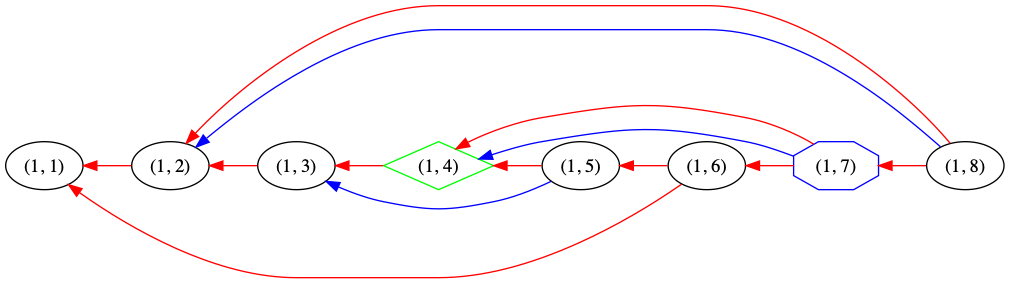
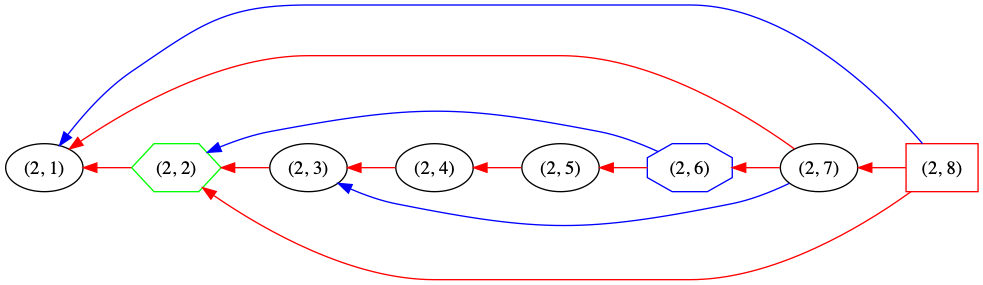
Add data layer.

diff --git a/replication/zigzag-commitments/zigzag-commitments.html b/replication/zigzag-commitments/zigzag-commitments.html
@@ -142,15 +142,17 @@ for the JavaScript code in this tag.
 <ul>
 <li><a href="#sec-1">1. Graph</a>
 <ul>
-<li><a href="#sec-1-1">1.1. Replica Column Layers, Comm' Tree</a></li>
-<li><a href="#sec-1-2">1.2. Final Layer, CommR Tree</a></li>
-<li><a href="#sec-1-3">1.3. Legend</a></li>
+<li><a href="#sec-1-1">1.1. Legend</a></li>
+<li><a href="#sec-1-2">1.2. Data Layer: CommD Tree</a></li>
+<li><a href="#sec-1-3">1.3. Replica Column Layers: Comm' Tree</a></li>
+<li><a href="#sec-1-4">1.4. Final Layer: CommR Tree</a></li>
 </ul>
 </li>
 <li><a href="#sec-2">2. Details</a>
 <ul>
-<li><a href="#sec-2-1">2.1. Columns</a></li>
-<li><a href="#sec-2-2">2.2. Final Layer</a></li>
+<li><a href="#sec-2-1">2.1. Initial Data Layer</a></li>
+<li><a href="#sec-2-2">2.2. Columns</a></li>
+<li><a href="#sec-2-3">2.3. Final Replica Layer</a></li>
 </ul>
 </li>
 </ul>
@@ -168,8 +170,35 @@ and are accurate for expander parents. However, this is not representative of th
 </div>
 
 <div id="outline-container-sec-1-1" class="outline-3">
-<h3 id="sec-1-1"><span class="section-number-3">1.1</span> Replica Column Layers, Comm' Tree</h3>
+<h3 id="sec-1-1"><span class="section-number-3">1.1</span> Legend</h3>
 <div class="outline-text-3" id="text-1-1">
+
+<div class="figure">
+<p><img src="legend-odd.png" alt="legend-odd.png" />
+</p>
+</div>
+
+<div class="figure">
+<p><img src="legend-even.png" alt="legend-even.png" />
+</p>
+</div>
+</div>
+</div>
+
+<div id="outline-container-sec-1-2" class="outline-3">
+<h3 id="sec-1-2"><span class="section-number-3">1.2</span> Data Layer: CommD Tree</h3>
+<div class="outline-text-3" id="text-1-2">
+
+<div class="figure">
+<p><img src="data-layer.png" alt="data-layer.png" />
+</p>
+</div>
+</div>
+</div>
+
+<div id="outline-container-sec-1-3" class="outline-3">
+<h3 id="sec-1-3"><span class="section-number-3">1.3</span> Replica Column Layers: Comm' Tree</h3>
+<div class="outline-text-3" id="text-1-3">
 
 <div class="figure">
 <p><img src="layer-0.png" alt="layer-0.png" />
@@ -202,9 +231,9 @@ and are accurate for expander parents. However, this is not representative of th
 </div>
 </div>
 
-<div id="outline-container-sec-1-2" class="outline-3">
-<h3 id="sec-1-2"><span class="section-number-3">1.2</span> Final Layer, CommR Tree</h3>
-<div class="outline-text-3" id="text-1-2">
+<div id="outline-container-sec-1-4" class="outline-3">
+<h3 id="sec-1-4"><span class="section-number-3">1.4</span> Final Layer: CommR Tree</h3>
+<div class="outline-text-3" id="text-1-4">
 
 <div class="figure">
 <p><img src="layer-5.png" alt="layer-5.png" />
@@ -212,27 +241,15 @@ and are accurate for expander parents. However, this is not representative of th
 </div>
 </div>
 </div>
-
-
-
-<div id="outline-container-sec-1-3" class="outline-3">
-<h3 id="sec-1-3"><span class="section-number-3">1.3</span> Legend</h3>
-<div class="outline-text-3" id="text-1-3">
-
-<div class="figure">
-<p><img src="layer-legend.png" alt="layer-legend.png" />
-</p>
 </div>
-</div>
-</div>
-</div>
+
 
 
 <div id="outline-container-sec-2" class="outline-2">
 <h2 id="sec-2"><span class="section-number-2">2</span> Details</h2>
 <div class="outline-text-2" id="text-2">
 </div><div id="outline-container-sec-2-1" class="outline-3">
-<h3 id="sec-2-1"><span class="section-number-3">2.1</span> Columns</h3>
+<h3 id="sec-2-1"><span class="section-number-3">2.1</span> Initial Data Layer</h3>
 <div class="outline-text-3" id="text-2-1">
 <table border="2" cellspacing="0" cellpadding="6" rules="groups" frame="hsides">
 
@@ -257,11 +274,11 @@ and are accurate for expander parents. However, this is not representative of th
 <tbody>
 <tr>
 <td class="left">&#xa0;</td>
-<td class="left">DRG Parent</td>
-<td class="left">Expander Parent</td>
+<td class="left">&#xa0;</td>
+<td class="left">&#xa0;</td>
+<td class="left">&#xa0;</td>
 <td class="left">&#xa0;</td>
 <td class="left">Challenged Node</td>
-<td class="left">&#xa0;</td>
 <td class="left">&#xa0;</td>
 <td class="left">&#xa0;</td>
 </tr>
@@ -276,57 +293,13 @@ and are accurate for expander parents. However, this is not representative of th
 <td class="left">(0, 7)</td>
 <td class="left">(0, 8)</td>
 </tr>
-
-<tr>
-<td class="left">(1, 8)</td>
-<td class="left">(1, 7)</td>
-<td class="left">(1, 6)</td>
-<td class="left">(1, 5)</td>
-<td class="left">(1, 4)</td>
-<td class="left">(1, 3)</td>
-<td class="left">(1, 2)</td>
-<td class="left">(1, 1)</td>
-</tr>
-
-<tr>
-<td class="left">(2, 1)</td>
-<td class="left">(2, 2)</td>
-<td class="left">(2, 3)</td>
-<td class="left">(2, 4)</td>
-<td class="left">(2, 5)</td>
-<td class="left">(2, 6)</td>
-<td class="left">(2, 7)</td>
-<td class="left">(2, 8)</td>
-</tr>
-
-<tr>
-<td class="left">(3, 8)</td>
-<td class="left">(3, 7)</td>
-<td class="left">(3, 6)</td>
-<td class="left">(3, 5)</td>
-<td class="left">(3, 4)</td>
-<td class="left">(3, 3)</td>
-<td class="left">(3, 2)</td>
-<td class="left">(3, 1)</td>
-</tr>
-
-<tr>
-<td class="left">(4, 1)</td>
-<td class="left">(4, 2)</td>
-<td class="left">(4, 3)</td>
-<td class="left">(4, 4)</td>
-<td class="left">(4, 5)</td>
-<td class="left">(4, 6)</td>
-<td class="left">(4, 7)</td>
-<td class="left">(4, 8)</td>
-</tr>
 </tbody>
 </table>
 </div>
 </div>
 
 <div id="outline-container-sec-2-2" class="outline-3">
-<h3 id="sec-2-2"><span class="section-number-3">2.2</span> Final Layer</h3>
+<h3 id="sec-2-2"><span class="section-number-3">2.2</span> Columns</h3>
 <div class="outline-text-3" id="text-2-2">
 <table border="2" cellspacing="0" cellpadding="6" rules="groups" frame="hsides">
 
@@ -350,14 +323,120 @@ and are accurate for expander parents. However, this is not representative of th
 </colgroup>
 <tbody>
 <tr>
-<td class="left">(5, 8)</td>
-<td class="left">(5, 7)</td>
-<td class="left">(5, 6)</td>
-<td class="left">(5, 5)</td>
-<td class="left">(5, 4)</td>
-<td class="left">(5, 3)</td>
-<td class="left">(5, 2)</td>
+<td class="left">Odd Expander Parent</td>
+<td class="left">DRG Parent</td>
+<td class="left">&#xa0;</td>
+<td class="left">&#xa0;</td>
+<td class="left">Even Expander Parent</td>
+<td class="left">Challenged Node</td>
+<td class="left">&#xa0;</td>
+<td class="left">&#xa0;</td>
+</tr>
+
+<tr>
+<td class="left">(1, 1)</td>
+<td class="left">(1, 2)</td>
+<td class="left">(1, 3)</td>
+<td class="left">(1, 4)</td>
+<td class="left">(1, 5)</td>
+<td class="left">(1, 6)</td>
+<td class="left">(1, 7)</td>
+<td class="left">(1, 8)</td>
+</tr>
+
+<tr>
+<td class="left">(2, 8)</td>
+<td class="left">(2, 7)</td>
+<td class="left">(2, 6)</td>
+<td class="left">(2, 5)</td>
+<td class="left">(2, 4)</td>
+<td class="left">(2, 3)</td>
+<td class="left">(2, 2)</td>
+<td class="left">(2, 1)</td>
+</tr>
+
+<tr>
+<td class="left">(3, 1)</td>
+<td class="left">(3, 2)</td>
+<td class="left">(3, 3)</td>
+<td class="left">(3, 4)</td>
+<td class="left">(3, 5)</td>
+<td class="left">(3, 6)</td>
+<td class="left">(3, 7)</td>
+<td class="left">(3, 8)</td>
+</tr>
+
+<tr>
+<td class="left">(4, 8)</td>
+<td class="left">(4, 7)</td>
+<td class="left">(4, 6)</td>
+<td class="left">(4, 5)</td>
+<td class="left">(4, 4)</td>
+<td class="left">(4, 3)</td>
+<td class="left">(4, 2)</td>
+<td class="left">(4, 1)</td>
+</tr>
+
+<tr>
 <td class="left">(5, 1)</td>
+<td class="left">(5, 2)</td>
+<td class="left">(5, 3)</td>
+<td class="left">(5, 4)</td>
+<td class="left">(5, 5)</td>
+<td class="left">(5, 6)</td>
+<td class="left">(5, 7)</td>
+<td class="left">(5, 8)</td>
+</tr>
+</tbody>
+</table>
+</div>
+</div>
+
+
+<div id="outline-container-sec-2-3" class="outline-3">
+<h3 id="sec-2-3"><span class="section-number-3">2.3</span> Final Replica Layer</h3>
+<div class="outline-text-3" id="text-2-3">
+<table border="2" cellspacing="0" cellpadding="6" rules="groups" frame="hsides">
+
+
+<colgroup>
+<col  class="left" />
+
+<col  class="left" />
+
+<col  class="left" />
+
+<col  class="left" />
+
+<col  class="left" />
+
+<col  class="left" />
+
+<col  class="left" />
+
+<col  class="left" />
+</colgroup>
+<tbody>
+<tr>
+<td class="left">&#xa0;</td>
+<td class="left">&#xa0;</td>
+<td class="left">Even Challenged Node</td>
+<td class="left">&#xa0;</td>
+<td class="left">Even Expander Parent</td>
+<td class="left">&#xa0;</td>
+<td class="left">Even DRG Parent</td>
+<td class="left">&#xa0;</td>
+</tr>
+
+<tr>
+<td class="left">(6, 1)</td>
+<td class="left">(6, 2)</td>
+<td class="left">(6, 3)</td>
+<td class="left">(6, 4)</td>
+<td class="left">(6, 5)</td>
+<td class="left">(6, 6)</td>
+<td class="left">(6, 7)</td>
+<td class="left">(6, 8)</td>
 </tr>
 </tbody>
 </table>
